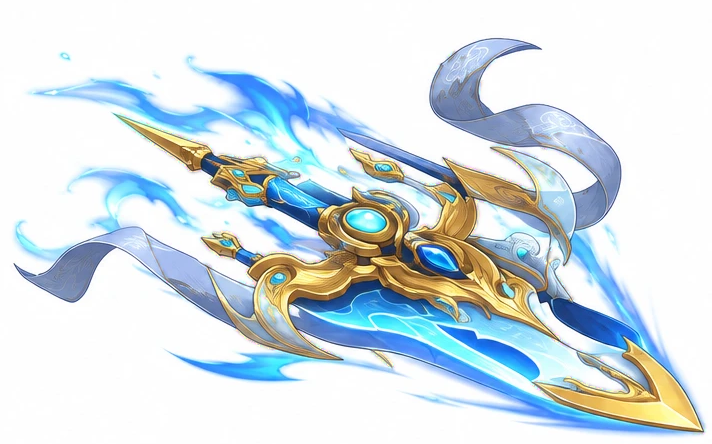
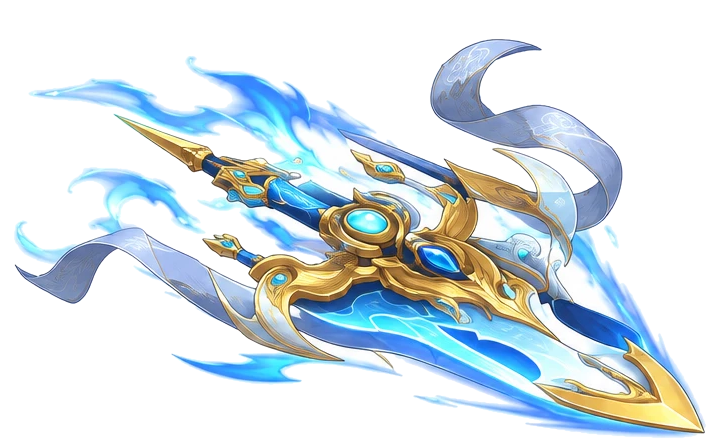
Mount page: show 破涅 as drawn on a light sky stage
The see-through glow cut-out muddied the flames and ribbons on the dark stage; a plain cut-out on a light stage keeps the art clean.

diff --git a/src/styles.css b/src/styles.css
@@ -1029,13 +1029,13 @@ canvas {
 @media (max-width: 640px) { .explore-lobby__regions { grid-template-columns: repeat(2, minmax(0, 1fr)); } .explore-lobby__regions li { min-height: 110px; } }
 @media (max-width: 640px) { .global-navigation__medallion--explore { font-size: 20px; } }
 
-/* 坐騎: the viewed mount animated on a dark stage, then a row of cards. */
+/* 坐騎: the viewed mount animated on a light sky stage (the art is painted for a light ground), then a row of cards. */
 .global-navigation__medallion--mount { background: radial-gradient(circle at 50% 35%, #cfe9ff, #2f5f9e 55%, #10213f); }
 .global-navigation__medallion--mount img { width: 120%; height: 120%; object-fit: contain; }
 .mount-content { width: min(1020px, 100%); }
 /* The stage stays near the art's own size (712 px cells): scaled up much further it turns soft. */
 .mount-showcase { display: grid; grid-template-columns: minmax(0, 620px) minmax(0, 1fr); gap: 16px; align-items: center; margin: 10px 0 14px; text-align: left; }
-.mount-showcase__stage { position: relative; display: grid; place-items: center; aspect-ratio: 712 / 444; border: 1px solid rgba(140, 190, 255, 0.35); border-radius: 14px; background: radial-gradient(ellipse at 50% 60%, #1d3a6a 0%, #0c1730 65%, #070d1e 100%); overflow: hidden; }
+.mount-showcase__stage { position: relative; display: grid; place-items: center; aspect-ratio: 711 / 445; border: 1px solid rgba(140, 190, 255, 0.35); border-radius: 14px; background: radial-gradient(ellipse at 50% 40%, #eef7ff 0%, #cfe4f6 55%, #9fc3e3 100%); overflow: hidden; }
 .mount-showcase__sprite { width: 100%; height: 100%; object-fit: contain; }
 .mount-showcase__placeholder { color: #9fb8d8; font-size: 16px; }
 .mount-showcase__info h2 { margin: 0 0 6px; color: #ffe9ac; font-family: "Noto Serif TC", serif; font-size: 28px; }
@@ -1050,8 +1050,8 @@ canvas {
 .mount-showcase__stones { font-size: 13px; opacity: 0.85; }
 .mount-grid { display: grid; grid-template-columns: repeat(5, minmax(0, 1fr)); gap: 10px; }
 .mount-card { position: relative; display: grid; justify-items: center; gap: 3px; padding: 8px 6px; border: 1px solid rgba(163, 208, 240, 0.44); border-radius: 12px; background: rgba(18, 54, 80, 0.78); color: #f5fbff; cursor: pointer; }
-.mount-card img { width: 100%; aspect-ratio: 712 / 444; object-fit: contain; border-radius: 8px; background: radial-gradient(ellipse at 50% 60%, #1d3a6a, #0c1730 75%); }
-.mount-card__placeholder { display: grid; place-items: center; width: 100%; aspect-ratio: 712 / 444; border-radius: 8px; background: rgba(8, 20, 34, 0.7); color: #6f88a8; font-size: 30px; font-weight: 800; }
+.mount-card img { width: 100%; aspect-ratio: 711 / 445; object-fit: contain; border-radius: 8px; background: radial-gradient(ellipse at 50% 40%, #eef7ff, #b7d4ee 80%); }
+.mount-card__placeholder { display: grid; place-items: center; width: 100%; aspect-ratio: 711 / 445; border-radius: 8px; background: rgba(8, 20, 34, 0.7); color: #6f88a8; font-size: 30px; font-weight: 800; }
 .mount-card strong { font-size: 15px; }
 .mount-card small { color: #b9d6ef; font-size: 12px; }
 .mount-card em { position: absolute; top: 6px; right: 6px; padding: 1px 7px; border-radius: 99px; background: #e9a94a; color: #3a2410; font-size: 11px; font-style: normal; font-weight: 800; }

diff --git a/src/features/mount/domain/MountCatalog.ts b/src/features/mount/domain/MountCatalog.ts
@@ -38,7 +38,7 @@ export const mountCatalog: readonly MountConfig[] = [
     kindZh: "御劍飛行",
     description: "金紋鏤空的飛行仙劍，御劍而行時藍色靈焰沿劍身奔流，銀綾隨風翻飛。",
     unlockZh: null,
-    sprite: { sheet: "/assets/mounts/破涅-sheet.webp", poster: "/assets/mounts/破涅-poster.webp", cols: 2, cellWidth: 712, cellHeight: 444, frames: 4, frameMs: 160 },
+    sprite: { sheet: "/assets/mounts/破涅-sheet.webp", poster: "/assets/mounts/破涅-poster.webp", cols: 2, cellWidth: 711, cellHeight: 445, frames: 4, frameMs: 160 },
     stat: "cultivationSpeed",
     baseBonus: 0.03,
     bonusPerLevel: 0.0025,
